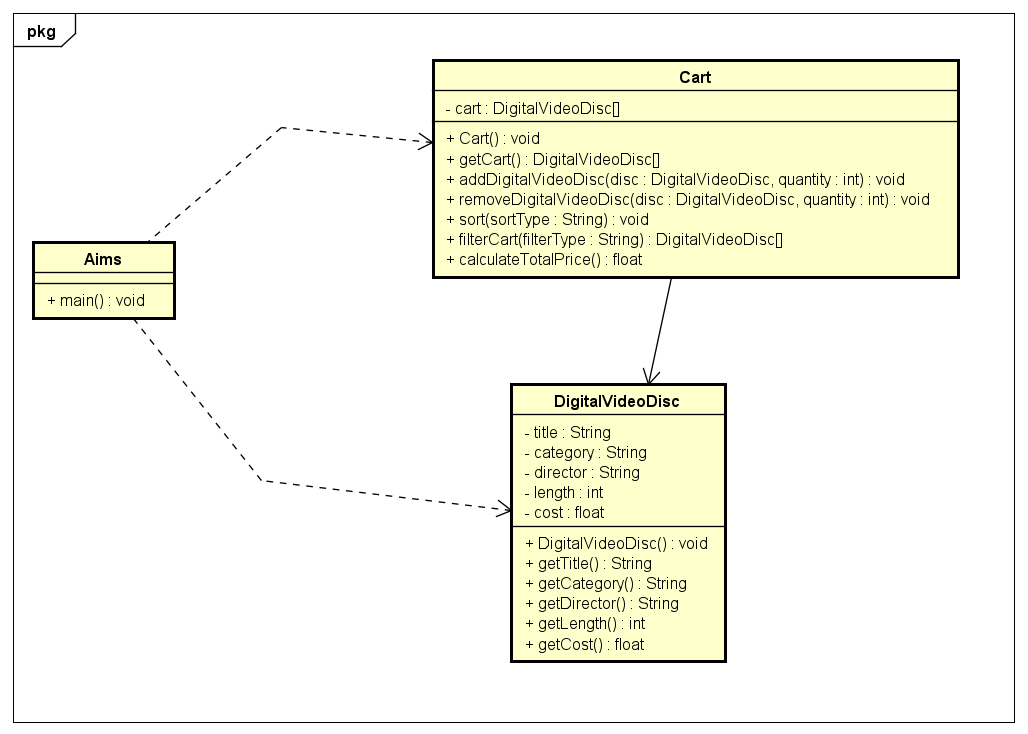
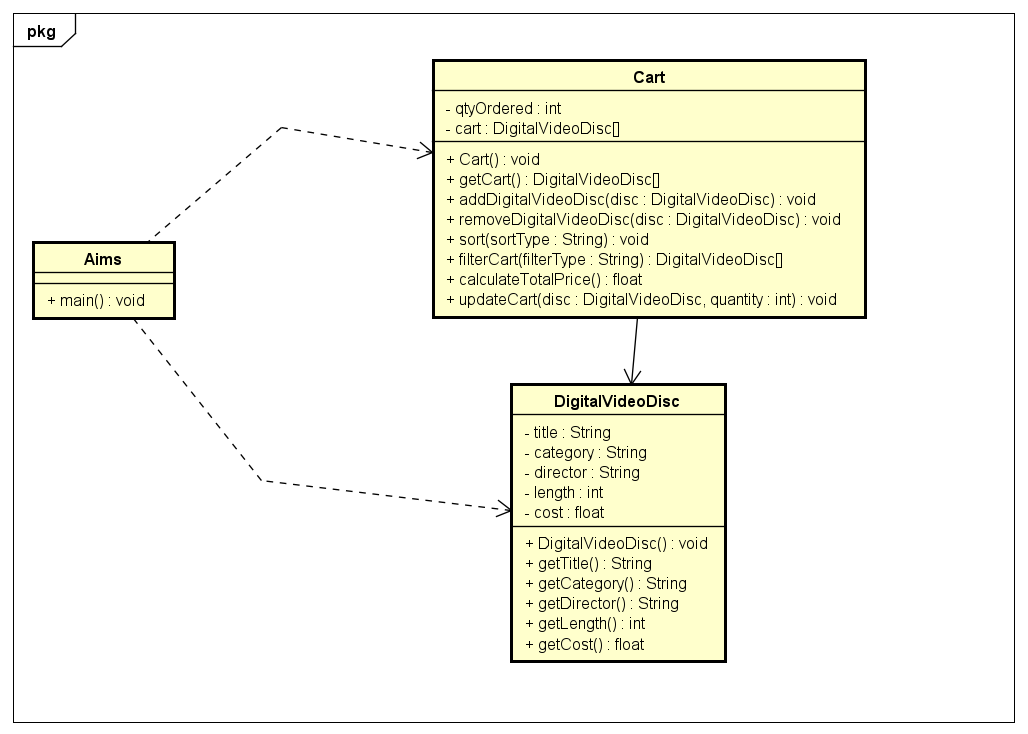
Source code added, and modified Class Diagram

diff --git a/Lab02/AimsProject/src/Cart.java b/Lab02/AimsProject/src/Cart.java
@@ -1,0 +1,43 @@
+
+public class Cart {
+	public static final int MAX_NUMBERS_ORDERED = 20;
+	private DigitalVideoDisc itemsOrdered[] = new DigitalVideoDisc[MAX_NUMBERS_ORDERED];
+	private int qtyOrdered = 0;
+	
+	public void addDigitalVideoDisc(DigitalVideoDisc disc) {
+		if (qtyOrdered < 20) {
+			itemsOrdered[qtyOrdered] = disc;
+			qtyOrdered++;
+			System.out.println("The disc " + disc.getTitle() + " has been added to the cart.");
+		}
+		if (qtyOrdered == 20) {
+			System.out.println("The cart is full.");
+		}
+	}
+	
+	public void removeDigitalVideoDisc(DigitalVideoDisc disc) {
+		for (int i = 0; i < qtyOrdered; i++) {
+			if (itemsOrdered[i] == disc) {
+				itemsOrdered[i] = null;
+				qtyOrdered--;
+				System.out.println("The disc " + disc.getTitle() + " has been removed from the cart.");
+			}
+		}
+	}
+	
+	public float totalCost() {
+		float cost = 0.0f;
+		int discsRemaining = qtyOrdered;
+		for (int i = 0; i < MAX_NUMBERS_ORDERED; i++) {
+			if (discsRemaining == 0) {
+				break;
+			}
+			
+			if (itemsOrdered[i] != null) {
+				cost += itemsOrdered[i].getCost();
+				discsRemaining--;
+			}
+		}
+		return cost;
+	}
+}

diff --git a/Lab02/AimsProject/src/DigitalVideoDisc.java b/Lab02/AimsProject/src/DigitalVideoDisc.java
@@ -1,0 +1,49 @@
+
+public class DigitalVideoDisc {
+	private String title;
+	private String category;
+	private String director;
+	private int length;
+	private float cost;
+	public String getTitle() {
+		return title;
+	}
+	public String getCategory() {
+		return category;
+	}
+	public String getDirector() {
+		return director;
+	}
+	public int getLength() {
+		return length;
+	}
+	public float getCost() {
+		return cost;
+	}
+	public DigitalVideoDisc(String title) {
+		super();
+		this.title = title;
+	}
+	public DigitalVideoDisc(String title, String category, float cost) {
+		super();
+		this.title = title;
+		this.category = category;
+		this.cost = cost;
+	}
+	public DigitalVideoDisc(String title, String category, String director, float cost) {
+		super();
+		this.title = title;
+		this.category = category;
+		this.director = director;
+		this.cost = cost;
+	}
+	public DigitalVideoDisc(String title, String category, String director, int length, float cost) {
+		super();
+		this.title = title;
+		this.category = category;
+		this.director = director;
+		this.length = length;
+		this.cost = cost;
+	}
+	
+}

diff --git a/Lab02/AimsProject/src/Aims.java b/Lab02/AimsProject/src/Aims.java
@@ -1,0 +1,22 @@
+
+public class Aims {
+	public static void main(String[] args) {
+		Cart anOrder = new Cart();
+		
+		DigitalVideoDisc dvd1 = new DigitalVideoDisc("The Lion King", "Animation", "Roger Allers", 87, 19.95f);
+		anOrder.addDigitalVideoDisc(dvd1);
+		
+		DigitalVideoDisc dvd2 = new DigitalVideoDisc("Star Wars", "Science Fiction", "George Lucas", 87, 24.95f);
+		anOrder.addDigitalVideoDisc(dvd2);
+		
+		DigitalVideoDisc dvd3 = new DigitalVideoDisc("Aladin", "Animation", 18.99f);
+		anOrder.addDigitalVideoDisc(dvd3);
+		
+		System.out.println("Total cost is: ");
+		System.out.println(anOrder.totalCost());
+		
+		anOrder.removeDigitalVideoDisc(dvd2);
+		System.out.println("Total cost is: ");
+		System.out.println(anOrder.totalCost());
+	}
+}
